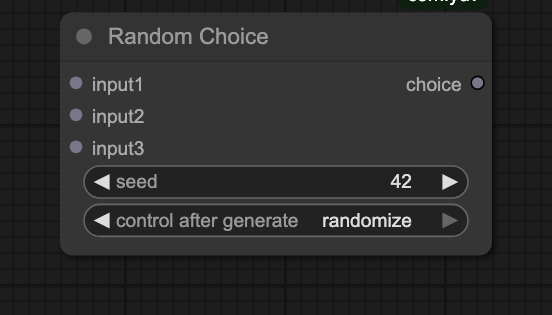
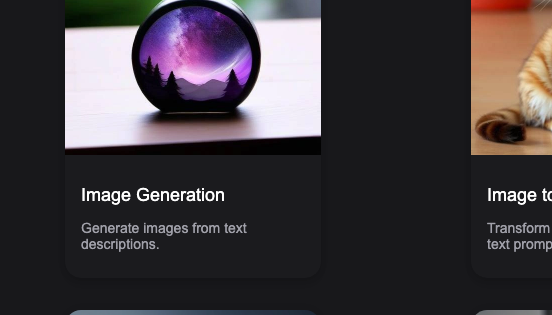
docs(006): T036/T037 — add Ollama screenshots and docker extra_hosts for host Ollama routing
Captures 4 Ollama node screenshots (client, chat, workflow, options) via
Playwright against the live dev ComfyUI instance. Adds extra_hosts to
docker-compose.dev.yml so the container can reach host-machine Ollama.
Updates README and docs/index.md to embed all 8 screenshots.

Claude-Session: https://claude.ai/code/session_01RWysE6jYn4YjNorLBQ1cXb

diff --git a/scripts/take_screenshots.py b/scripts/take_screenshots.py
@@ -251,6 +251,221 @@ async def scene_circuit_breaker(page: Page, out: Path) -> None:
     await _capture(page, out, info["pos"], info["size"])
 
 
+async def scene_ollama_client(page: Page, out: Path) -> None:
+    """OllamaClient — single node showing the host URL widget."""
+    await _clear(page)
+
+    info = await page.evaluate(
+        """
+        () => {
+            const node = LiteGraph.createNode("OllamaClient");
+            node.pos = [60, 60];
+            window.app.graph.add(node);
+            // Use host.docker.internal so the server-side fetch can reach host Ollama
+            const hostWidget = node.widgets && node.widgets.find(w => w.name === "host");
+            if (hostWidget) hostWidget.value = "http://host.docker.internal:11434";
+            window.app.canvas.setDirty(true, true);
+            window.app.canvas.draw(true, true);
+            return { pos: [node.pos[0], node.pos[1]], size: [node.size[0], node.size[1]] };
+        }
+        """
+    )
+
+    await _frame_node(page, info["pos"], info["size"])
+    await _capture(page, out, info["pos"], info["size"])
+
+
+async def scene_ollama_chat(page: Page, out: Path) -> None:
+    """OllamaChatCompletion — showing the live model dropdown and prompt widget."""
+    await _clear(page)
+
+    info = await page.evaluate(
+        """
+        async () => {
+            const node = LiteGraph.createNode("OllamaChatCompletion");
+            node.pos = [60, 60];
+            window.app.graph.add(node);
+
+            // Set a demo prompt
+            const promptWidget = node.widgets && node.widgets.find(w => w.name === "prompt");
+            if (promptWidget) promptWidget.value = "Describe this image in one sentence.";
+
+            // Trigger live model refresh via host.docker.internal
+            if (typeof window.__comfydv_refreshModels === "function") {
+                await window.__comfydv_refreshModels(node, "http://host.docker.internal:11434");
+            } else {
+                // Manually fetch and populate the COMBO
+                try {
+                    const resp = await fetch("/dv/ollama/models?host=http://host.docker.internal:11434");
+                    if (resp.ok) {
+                        const data = await resp.json();
+                        const models = data.models || [];
+                        if (models.length) {
+                            const modelWidget = node.widgets && node.widgets.find(w => w.name === "model");
+                            if (modelWidget) {
+                                modelWidget.options = modelWidget.options || {};
+                                modelWidget.options.values = models;
+                                modelWidget.value = models[0];
+                            }
+                        }
+                    }
+                } catch(e) {}
+            }
+
+            await new Promise(r => setTimeout(r, 800));
+            window.app.canvas.setDirty(true, true);
+            window.app.canvas.draw(true, true);
+            return { pos: [node.pos[0], node.pos[1]], size: [node.size[0], node.size[1]] };
+        }
+        """
+    )
+
+    await asyncio.sleep(1.0)
+    await _redraw(page)
+    await _frame_node(page, info["pos"], info["size"])
+    await _capture(page, out, info["pos"], info["size"])
+
+
+async def scene_ollama_workflow(page: Page, out: Path) -> None:
+    """Full mini-workflow: OllamaClient → OllamaChatCompletion + Temperature + Seed options."""
+    await _clear(page)
+
+    info = await page.evaluate(
+        """
+        async () => {
+            const graph = window.app.graph;
+
+            // 1. OllamaClient — top-left
+            const client = LiteGraph.createNode("OllamaClient");
+            client.pos = [40, 40];
+            graph.add(client);
+
+            // 2. Temperature option — middle-left
+            const temp = LiteGraph.createNode("OllamaOptionTemperature");
+            temp.pos = [40, 200];
+            graph.add(temp);
+            const twTemp = temp.widgets && temp.widgets.find(w => w.name === "temperature");
+            if (twTemp) twTemp.value = 0.7;
+
+            // 3. Seed option — below temp
+            const seed = LiteGraph.createNode("OllamaOptionSeed");
+            seed.pos = [40, 340];
+            graph.add(seed);
+            const twSeed = seed.widgets && seed.widgets.find(w => w.name === "seed");
+            if (twSeed) twSeed.value = 42;
+
+            // 4. ChatCompletion — right
+            const chat = LiteGraph.createNode("OllamaChatCompletion");
+            chat.pos = [380, 100];
+            graph.add(chat);
+            const twPrompt = chat.widgets && chat.widgets.find(w => w.name === "prompt");
+            if (twPrompt) twPrompt.value = "Write a haiku about ComfyUI.";
+
+            // Set client host to reach host Ollama through Docker
+            const hostWidget = client.widgets && client.widgets.find(w => w.name === "host");
+            if (hostWidget) hostWidget.value = "http://host.docker.internal:11434";
+
+            // Wire: client.OLLAMA_CLIENT (output 0) → chat.client (input 0)
+            client.connect(0, chat, 0);
+
+            // Wire: temp.OLLAMA_OPTIONS (output 0) → seed.options (input 0)
+            temp.connect(0, seed, 0);
+
+            // Wire: seed.OLLAMA_OPTIONS (output 0) → chat.options input
+            // Find the 'options' input slot index on chat node
+            const optSlot = chat.inputs ? chat.inputs.findIndex(inp => inp.name === "options") : 3;
+            seed.connect(0, chat, optSlot >= 0 ? optSlot : 3);
+
+            // Refresh model dropdowns for chat node
+            try {
+                const resp = await fetch("/dv/ollama/models?host=http://host.docker.internal:11434");
+                if (resp.ok) {
+                    const data = await resp.json();
+                    const models = data.models || [];
+                    if (models.length) {
+                        const modelWidget = chat.widgets && chat.widgets.find(w => w.name === "model");
+                        if (modelWidget) {
+                            modelWidget.options = modelWidget.options || {};
+                            modelWidget.options.values = models;
+                            modelWidget.value = models[0];
+                        }
+                    }
+                }
+            } catch(e) {}
+
+            await new Promise(r => setTimeout(r, 1200));
+            window.app.canvas.setDirty(true, true);
+            window.app.canvas.draw(true, true);
+
+            // Bounding box across all 4 nodes
+            const nodes = [client, temp, seed, chat];
+            const minX = Math.min(...nodes.map(n => n.pos[0])) - 20;
+            const minY = Math.min(...nodes.map(n => n.pos[1])) - 20;
+            const maxX = Math.max(...nodes.map(n => n.pos[0] + n.size[0])) + 20;
+            const maxY = Math.max(...nodes.map(n => n.pos[1] + n.size[1])) + 20;
+            return {
+                pos: [minX, minY],
+                size: [maxX - minX, maxY - minY],
+            };
+        }
+        """
+    )
+
+    # Wait for model dropdowns to refresh via /dv/ollama/models
+    await asyncio.sleep(2.5)
+    await _redraw(page)
+    await _frame_node(page, info["pos"], info["size"], scale=1.0)
+    await _capture(page, out, info["pos"], info["size"], scale=1.0)
+
+
+async def scene_ollama_options(page: Page, out: Path) -> None:
+    """OllamaOption nodes — Temperature, Seed, MaxTokens in a vertical chain."""
+    await _clear(page)
+
+    info = await page.evaluate(
+        """
+        () => {
+            const graph = window.app.graph;
+
+            const temp = LiteGraph.createNode("OllamaOptionTemperature");
+            temp.pos = [60, 40];
+            graph.add(temp);
+            const twTemp = temp.widgets && temp.widgets.find(w => w.name === "temperature");
+            if (twTemp) twTemp.value = 0.8;
+
+            const seed = LiteGraph.createNode("OllamaOptionSeed");
+            seed.pos = [60, 180];
+            graph.add(seed);
+            const twSeed = seed.widgets && seed.widgets.find(w => w.name === "seed");
+            if (twSeed) twSeed.value = 1337;
+
+            const maxTok = LiteGraph.createNode("OllamaOptionMaxTokens");
+            maxTok.pos = [60, 320];
+            graph.add(maxTok);
+            const twMax = maxTok.widgets && maxTok.widgets.find(w => w.name === "max_tokens");
+            if (twMax) twMax.value = 256;
+
+            // Chain: temp → seed → maxTok (node.connect(outputSlot, targetNode, inputSlot))
+            temp.connect(0, seed, 0);
+            seed.connect(0, maxTok, 0);
+
+            window.app.canvas.setDirty(true, true);
+            window.app.canvas.draw(true, true);
+
+            const nodes = [temp, seed, maxTok];
+            const minX = Math.min(...nodes.map(n => n.pos[0])) - 20;
+            const minY = Math.min(...nodes.map(n => n.pos[1])) - 20;
+            const maxX = Math.max(...nodes.map(n => n.pos[0] + n.size[0])) + 20;
+            const maxY = Math.max(...nodes.map(n => n.pos[1] + n.size[1])) + 20;
+            return { pos: [minX, minY], size: [maxX - minX, maxY - minY] };
+        }
+        """
+    )
+
+    await _frame_node(page, info["pos"], info["size"], scale=1.2)
+    await _capture(page, out, info["pos"], info["size"], scale=1.2)
+
+
 # ---------------------------------------------------------------------------
 # Main
 # ---------------------------------------------------------------------------
@@ -260,6 +475,11 @@ SCENES = [
     ("jinja2.png", scene_format_string_jinja2),
     ("random.png", scene_random_choice),
     ("circuit_breaker.png", scene_circuit_breaker),
+    # Ollama nodes (spec 006)
+    ("ollama_client.png", scene_ollama_client),
+    ("ollama_chat.png", scene_ollama_chat),
+    ("ollama_workflow.png", scene_ollama_workflow),
+    ("ollama_options.png", scene_ollama_options),
 ]
 
 

diff --git a/README.md b/README.md
@@ -103,11 +103,23 @@ Typical use: skip an expensive upscale step when a quality-check node says the d
 
 14 nodes for integrating a local Ollama LLM into your ComfyUI workflow. The host URL is configured once in **Ollama Client** and threaded through the graph — all downstream nodes receive it via the `OLLAMA_CLIENT` socket.
 
+### Ollama Client node
+
+Configure the server address once; all downstream Ollama nodes inherit it automatically.
+
+![Ollama Client](docs/assets/ollama_client.png)
+
 ### Minimal chat workflow
 
 1. **Ollama Client** → set host (default `http://localhost:11434`)
 2. **Ollama Model Selector** → pick a model from the live dropdown
 3. **Ollama Chat Completion** → wire client + model + prompt → response string
+
+![Ollama Chat Completion](docs/assets/ollama_chat.png)
+
+Wire multiple nodes together for a complete end-to-end workflow:
+
+![Ollama Full Workflow](docs/assets/ollama_workflow.png)
 
 ### Option nodes
 
@@ -122,6 +134,8 @@ Chain any combination of **Ollama Option —** nodes before Chat Completion to o
 | Top K | `top_k` |
 | Repeat Penalty | `repeat_penalty` |
 | Extra Body | arbitrary JSON merged into options |
+
+![Ollama Option Nodes](docs/assets/ollama_options.png)
 
 ### Multi-turn conversations
 

diff --git a/docs/index.md b/docs/index.md
@@ -87,11 +87,23 @@ Typical use: skip an expensive upscale step when a quality-check node says the d
 
 14 nodes for integrating a local Ollama LLM into your ComfyUI workflow. The host URL is configured once in **Ollama Client** and threaded through the graph — all downstream nodes receive it via the `OLLAMA_CLIENT` socket.
 
+### Ollama Client node
+
+Configure the server address once; all downstream Ollama nodes inherit it automatically.
+
+![Ollama Client](assets/ollama_client.png)
+
 ### Minimal chat workflow
 
 1. **Ollama Client** → set host (default `http://localhost:11434`)
 2. **Ollama Model Selector** → pick a model from the live dropdown
 3. **Ollama Chat Completion** → wire client + model + prompt → response string
+
+![Ollama Chat Completion](assets/ollama_chat.png)
+
+Wire multiple nodes together for a complete end-to-end workflow:
+
+![Ollama Full Workflow](assets/ollama_workflow.png)
 
 ### Option nodes
 
@@ -106,6 +118,8 @@ Chain any combination of **Ollama Option —** nodes before Chat Completion to o
 | Top K | `top_k` |
 | Repeat Penalty | `repeat_penalty` |
 | Extra Body | arbitrary JSON merged into options |
+
+![Ollama Option Nodes](assets/ollama_options.png)
 
 ### Multi-turn conversations
 